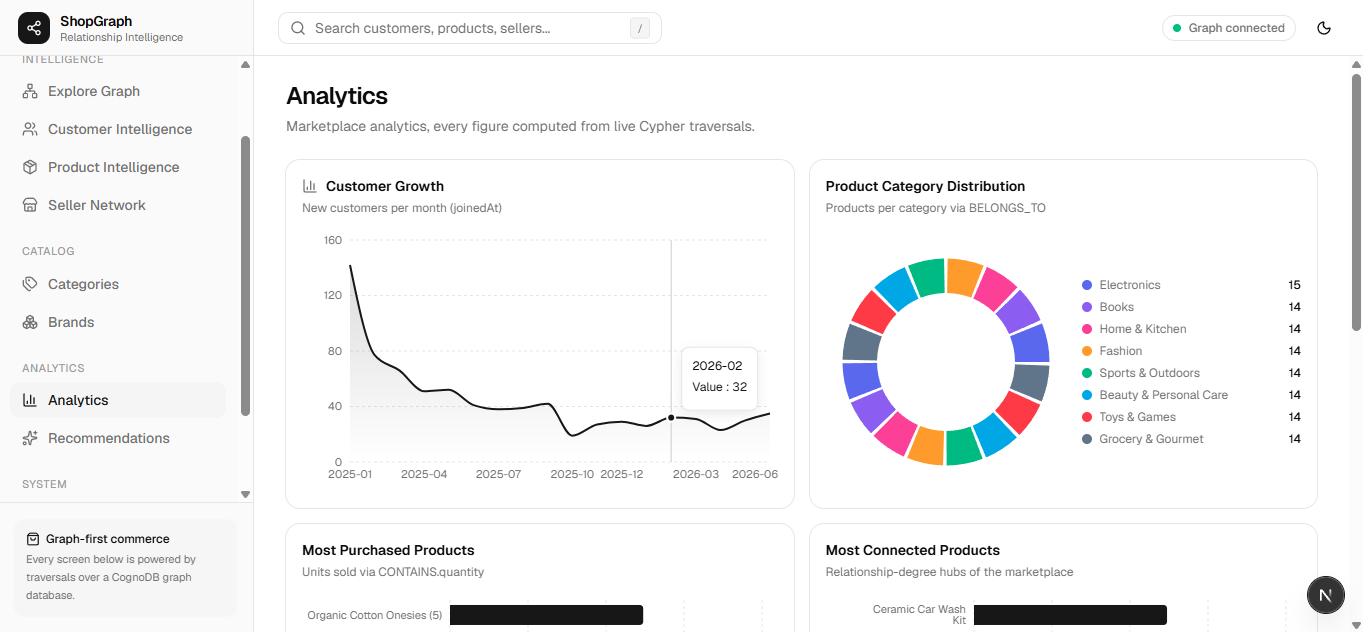
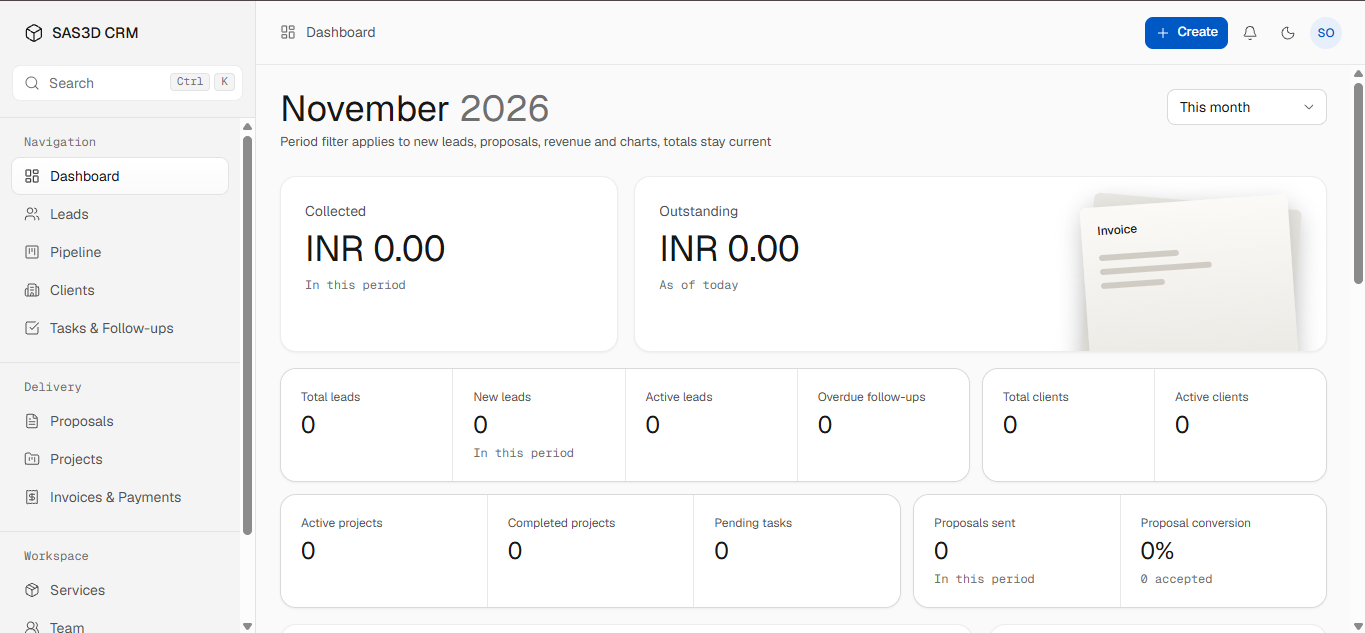
change 3rd Project

diff --git a/src/data/projects.ts b/src/data/projects.ts
@@ -74,8 +74,8 @@ export const projects: Project[] = [
     featured: true,
   },
   {
-    slug: "luma-saas-dashboard",
-    title: "A graph-native commerce platform built for relationship intelligence",
+    slug: "Customer Management Platform",
+    title: "One connected system for the full client lifecycle, from first lead to final payment",
     client: "WEXA.AI",
     year: "2026",
     category: "Web Development",
@@ -88,22 +88,22 @@ export const projects: Project[] = [
       "/images/projects/s_3.png",
     ],
     excerpt:
-      "A graph-first commerce platform where every screen is powered by traversals over a graph database, helping teams explore the hidden relationships between customers, products, sellers, and brands instead of digging through flat relational tables.",
+      "An internal CRM and business management platform that brings leads, sales, proposals, projects, invoices, and payments into one system, with role-based access for every team.",
     problem:
-      "Marketplace data — customers, products, sellers, categories, brands — is deeply relational, but traditional dashboards flatten it into isolated tables and reports. Teams could see individual records, but not how those records connected to one another, making it slow and difficult to answer questions that spanned multiple entities or to spot patterns hidden a few hops away.",
+      "Running a client lifecycle touches sales, delivery, and finance, and each stage depends on the one before it. When that work is spread across separate tools, a client's history is hard to follow, follow-ups can slip, and it takes real effort to answer simple questions about what has been sold, delivered, and paid.",
     solution:
-      "We built a graph-native commerce platform where every screen is powered by traversal queries over a graph database instead of conventional relational lookups. The experience centers on an interactive graph explorer that lets users search for any node — customer, product, seller, or brand — and visually walk its multi-hop connections, backed by dedicated Customer, Product, and Seller intelligence modules for deeper analysis.",
+      "We built a single platform that follows each client from first contact to final payment. Leads move through a drag-and-drop pipeline and convert into clients and projects, proposals and invoices generate branded PDFs, and project progress is calculated from completed work. Reports, global search, notifications, and an audit log tie the whole system together.",
     approach: [
-      "Mapped the core marketplace entities and their relationships — customers, products, sellers, categories, and brands — to define what a graph-first data model needed to support.",
-      "Designed an interactive graph explorer and dedicated intelligence modules (Customer, Product, Seller) that make multi-hop relationships easy to search, traverse, and understand at a glance.",
-      "Built a production-ready platform with an analytics suite, recommendations engine, and live database health monitoring, backed by a scalable design system and reliable deployment workflows."
-    ],
+    "Mapped the full client lifecycle, from lead capture through pipeline, proposal, project delivery, invoicing, and payment, so each stage carries its records into the next.",
+    "Designed focused modules for each team, with six roles and record-level access control, so sales, project managers, developers, and finance each work with the information they need.",
+    "Built for real financial workflows, including partial payments, payment voiding, automatic overdue detection, and separate totals for each currency, backed by database transactions and automated tests."
+  ],
     results: [
-      { label: "First report in week 1", value: "22 → 71%" },
-      { label: "Activation", value: "+49%" },
-      { label: "Churn", value: "-27%" },
-    ],
-    liveUrl: "https://shopgraph.vercel.app/",
+    { label: "User roles with record-level access", value: "6" },
+    { label: "Currencies, never mixed in totals", value: "7" },
+    { label: "Report areas with CSV export", value: "4" },
+  ],
+    liveUrl: "https://customer-management-portal-gray.vercel.app//",
     tags: ["SaaS", "Dashboard", "IA"],
     featured: true,
   },
